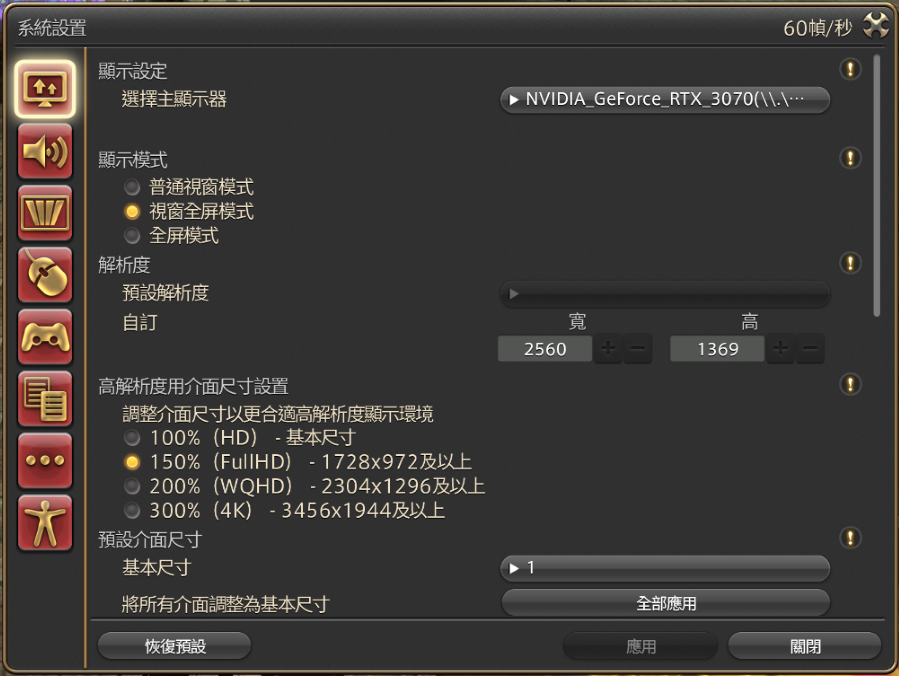
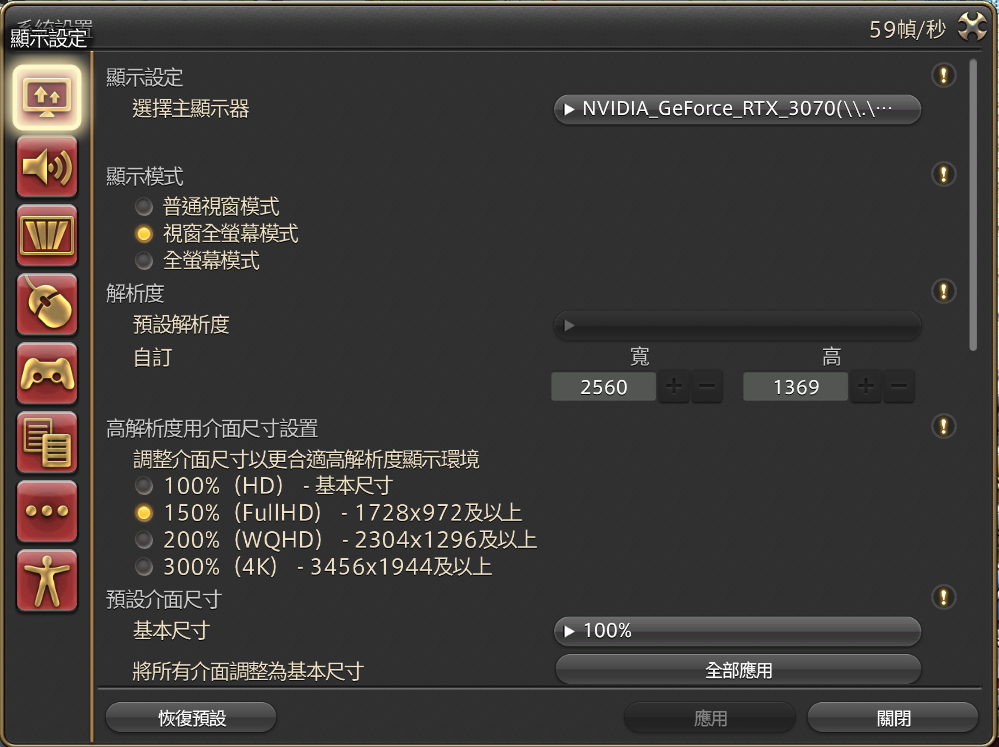
feat: 更新系統設置說明

diff --git a/www/content/1.setting/1.system.md b/www/content/1.setting/1.system.md
@@ -7,53 +7,58 @@ icon: lucide:arrow-big-down
 ## 顯示設定
 
 ![Image width](/setting-img/system-1.png){:zoom="false"}
-解析度依照自己的螢幕和習慣調整就可以了。
+- **解析度** 可依照自身螢幕與使用習慣調整。<br>
+- 若使用高解析度螢幕，**建議一併調整介面尺寸**，避免畫面過小難以辨識。
 
 ![Image](/setting-img/system-2.png){:zoom="false"}
-偵數越高越好，不過同時電腦也會變很熱，比較推薦最低至少要60。<br>
-至於下面兩個則是當你螢幕切出去或是角色閒置的時候，會降低到約16~17讓電腦比較不那麼熱，推薦勾選
+- **偵數限制** 越高越順，但也會導致電腦溫度上升。<br>
+  推薦最低設定為 **60**，或勾選「主顯示器的更新率」以自動套用螢幕原生設定。
+- **背景或閒置狀態時降頻**：<br>
+  螢幕切出或角色閒置時將 FPS 降至約 14~16，可降低電腦負擔，**推薦開啟**。
 
 ## 聲音設定
 
 ![Image](/setting-img/system-3.png){:zoom="false"}
 
-- 聲音在非啟動狀態仍然有效<br>
-一樣是視窗切出去的時候聲音是否停止。
-- 騎乘狀態下撥放音樂<br>
-有些坐騎會有自己的音樂，取消就可以不聽。
+- **聲音在非啟動狀態仍然有效**：<br>
+  控制視窗切出後是否仍播放聲音。
+- **騎乘狀態下播放音樂**：<br>
+  坐騎會有專屬音樂，若不想聽可取消勾選。
 
 ![Image](/setting-img/system-4.png){:zoom="false"}
-- 調節音量<br>
-這邊的語音是NPC的聲音，推薦開大一點仔細聽他們的聲音語調。
 
-## 影像設定
+- **調節音量**：<br>
+  此處的「語音」指的是 **NPC 的語音對話**，建議調高一點以便聆聽語調與語氣。
 
-依照自己喜好和電腦設定
+## 圖像設定
+
+![Image](/setting-img/system-5.png){:zoom="false"}
+- **介面解析度** 建議設為 **高解析度**，其餘依電腦效能與個人偏好調整即可。
+
+![Image](/setting-img/system-6.png){:zoom="false"}
+- **畫面特效**：<br>
+  「臨邊昏暗」與「徑向模糊」個人建議關閉，整體畫面會更清晰明亮，視覺體驗更佳。
 
 ## 滑鼠設定
 
-依照自己喜好設定
-
-## 手把設定
-
-![Image](/setting-img/system-5.png){:zoom="false"}
-有用手把記得要在這邊啟動<br>
-靈敏度則依照自己的手把調低一點，預設是50，可以先調到15左右看會不會自己移動再微調
-![Image](/setting-img/system-6.png){:zoom="false"}
-手動設置內可以再把蘑菇投按壓設定成第98和99號巨集，例如跑步之類的
+![Image](/setting-img/system-7.png){:zoom="false"}
+- 全部依照 **個人習慣** 調整即可。
 
 ## 顏色主題設定
 
-依照自己喜好設定
+![Image](/setting-img/system-8.png){:zoom="false"}
+- 全部依照 **個人習慣** 調整即可。
 
 ## 其他設定
 
-多久自動切換成離開在這邊設定<br>
-多久自動切換成離開在這邊設定<br>
-多久自動切換成離開在這邊設定<br>
-很重要要說三次，雖然是遊戲設定，但是被歸類在系統設定這裡<br>
-另外標題畫面推薦設定成依照主線進度
+![Image](/setting-img/system-9.png){:zoom="false"}
+- **自動離開設置**：<br>
+<span style="color: #ff4757; font-weight: bold;">自動切換為離開狀態的時間</span> 可以在這裡設定。
+
+- **標題畫面設置**：
+  建議設定為 **依照主線進度變化**。
 
 ## 輔助功能設定
 
-依照自己喜好設定，正常應該用不到
+![Image](/setting-img/system-10.png){:zoom="false"}
+- 大多數情況下用不到，可依需求自行調整。
